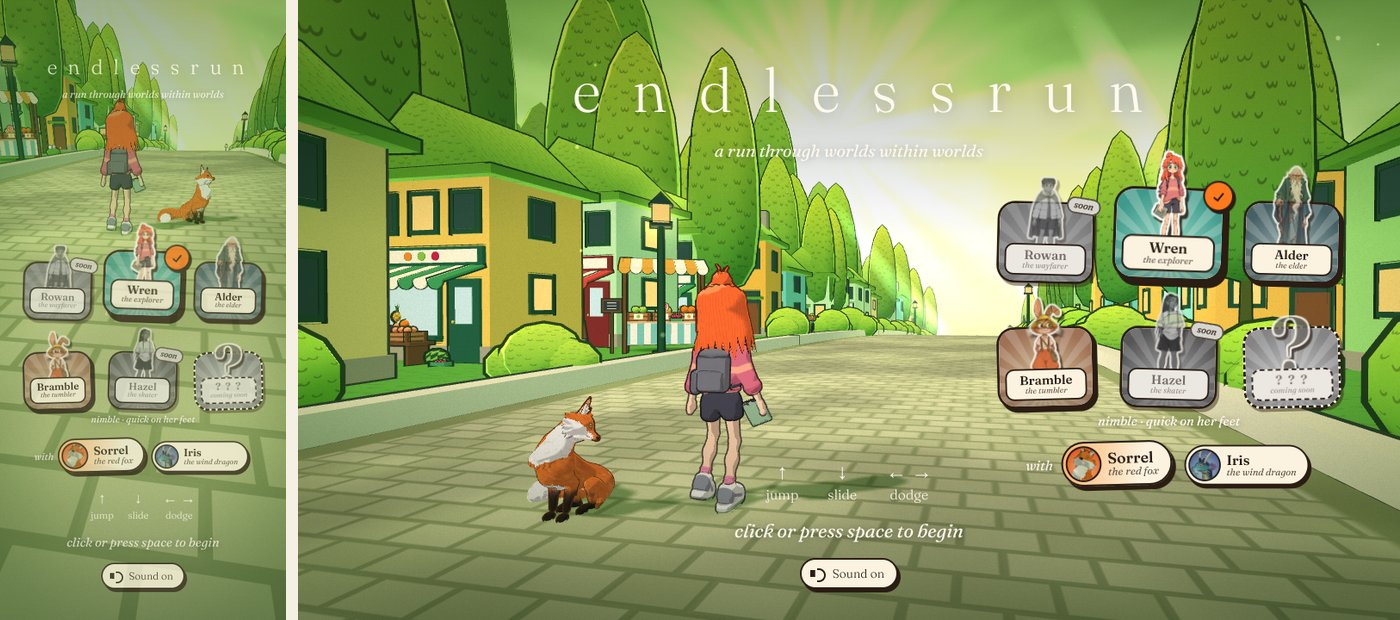
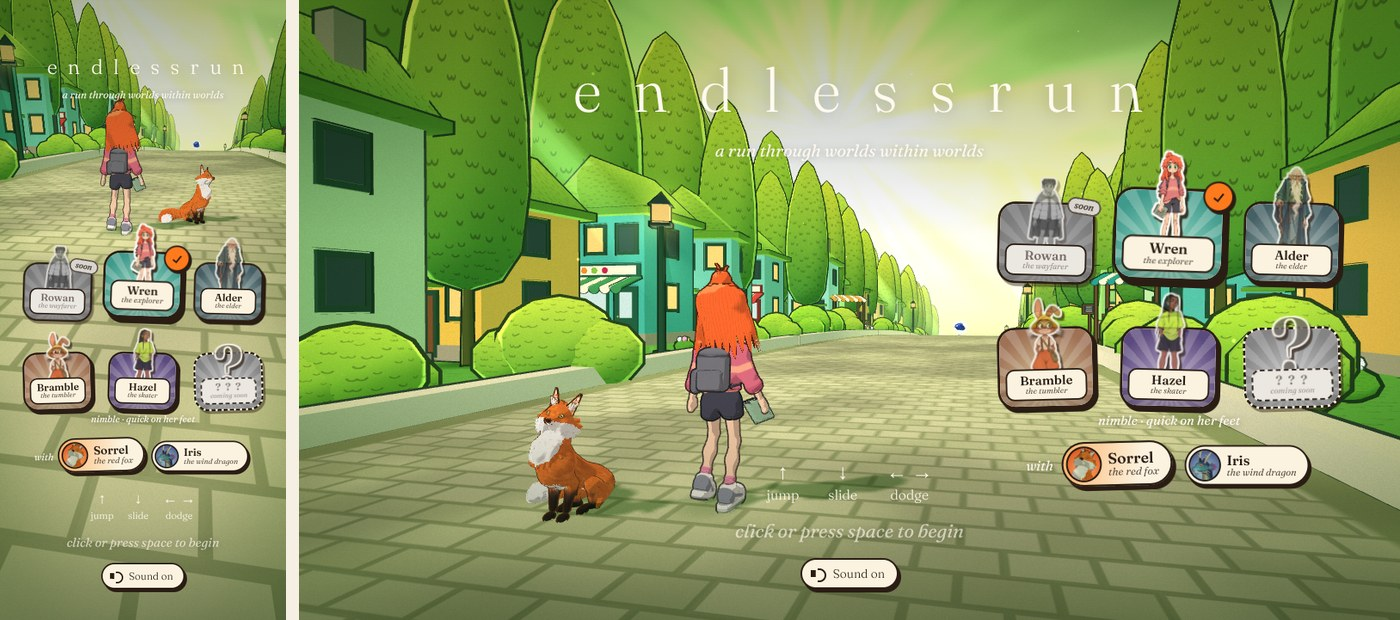
Hazel out of the workshop: her card can be picked again
Drops `locked` from the skater in characters.js, so her card is dealt in her
own colours on the title screen, tapping it (or stepping onto it with the
arrow keys) picks her, and the pick is remembered. Rowan stays in the
workshop for now. README and the title-screen picture (docs/runners.jpg)
updated to match.

Claude-Session: https://claude.ai/code/session_01XAN2RayJVaDEtGiiahJcVS

diff --git a/src/game/characters.js b/src/game/characters.js
@@ -61,7 +61,6 @@ export const CHARACTERS = [
     asset: 'assets/skater/',
     card: 'assets/characters/skater.webp',
     tint: ['#d9b3ff', '#7046c4'],
-    locked: true,
     make: (env, asset) => new Skater(env, asset),
   },
 ];

diff --git a/README.md b/README.md
@@ -1268,9 +1268,10 @@ through it.
 ## The runners
 
 Five runners, chosen on the title screen (and a sixth card held for whoever's
-next) — though for now two of them, Rowan and Hazel, are back in the workshop
-being worked on: they're still in the game, their cards dealt greyed out, but
-they can't be picked (see [Choosing who runs](#choosing-who-runs)). Each is sculpted offline (`tools/runner/`), skinned to the same skeleton
+next) — though for now one of them, Rowan, is back in the workshop being
+worked on: he's still in the game, his card dealt greyed out, but he can't be
+picked (see [Choosing who runs](#choosing-who-runs)); Hazel is back out of it
+and can be picked again. Each is sculpted offline (`tools/runner/`), skinned to the same skeleton
 and driven by the same core — lanes, jumps, slides, the IK running legs, weight
 and follow-through (`src/game/player.js`) — and each dresses it, hangs
 simulated sheets off it and moves in their own way (`wayfarer.js`,
@@ -1290,7 +1291,7 @@ and how to make them live in `characters.js`).
 
 ### Choosing who runs
 
-![The title screen on a phone and on a wide screen, choosing Wren: the runners' cards three by two - Rowan's and Hazel's greyed out for now, the last a mystery still to come - the companions' badges under them](docs/runners.jpg)
+![The title screen on a phone and on a wide screen, choosing Wren: the runners' cards three by two - Rowan's greyed out for now, the last a mystery still to come - the companions' badges under them](docs/runners.jpg)
 
 The title screen deals a card for each runner, in a grid three by two: their
 front view, cut out of their reference sheet (`tools/characters/<id>-sheet.jpg`,
@@ -1302,13 +1303,12 @@ The grid is always full: a slot no runner fills yet holds a mystery card —
 washed out in greys, a dashed edge, a big question mark standing up where the
 figure would, "coming soon" on its plate — that can't be picked (and that the
 arrow keys step over). A runner still being worked on (`locked` in
-`characters.js`: Rowan and Hazel, for now) is dealt too, but greyed out — the
+`characters.js`: Rowan, for now) is dealt too, but greyed out — the
 card washed in greys, their figure faded to graphite, a "soon" stamp on its
 corner — and can't be picked either: tapping it does nothing, the arrow keys
 step over it, and if they were the one remembered the title screen opens on
 the first who can be picked (Wren) instead. They're still built, so
-`?runner=wayfarer` (or `skater`) runs as them all the same, for working on
-them. The one you've picked stands taller, bobs and wears an orange seal, and a line
+`?runner=wayfarer` runs as him all the same, for working on him. The one you've picked stands taller, bobs and wears an orange seal, and a line
 about them sits under the grid. Picking one swaps the live runner on the road
 behind the cards (every runner is built, and their shaders compiled, at boot,
 so it's instant), and they say hello — a gust catches Rowan's cape, Wren's
